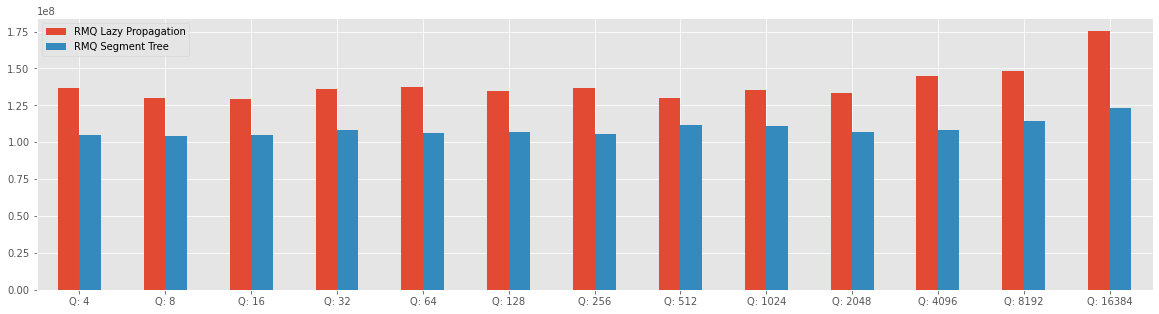
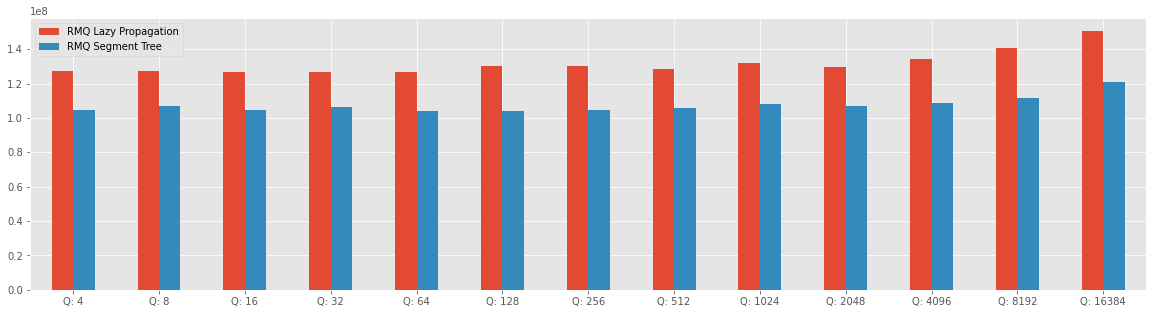
Improve benchmark  and update the report :heavy_check_mark:

diff --git a/Appendix/report_experiment/RMQ/benchmark/Main.cpp b/Appendix/report_experiment/RMQ/benchmark/Main.cpp
@@ -23,8 +23,6 @@
 #include <cmath>
 #include "../src/core/RangeMinimumQuery.hpp"
 
-//TODO the naive solution include only the range minimum query answer without update
-//for the moment
 static void BM_NAIVE_SOLUTION(benchmark::State& state)
 {
     for(auto _ : state) {
@@ -35,7 +33,7 @@ static void BM_NAIVE_SOLUTION(benchmark::State& state)
             input.push_back(rand() % state.range(1));
         std::vector<Query<int>> queries;
         for (size_t i = 0; i < state.range(0); i++)
-            if (i % 2 == 0)
+            if (state.range(0) % 2 == 0)
                 queries.emplace_back(false, rand() % state.range(1), rand() % state.range(1));
             else
                 queries.emplace_back(false, rand() % state.range(1), rand() % state.range(1));
@@ -54,7 +52,7 @@ static void BM_SEGMENT_TREE_BH(benchmark::State& state)
             input.push_back(rand() % state.range(1));
         std::vector<Query<int>> queries;
         for (size_t i = 0; i < state.range(0); i++)
-            if (i % 2 == 0)
+            if (state.range(0) % 2 == 0)
                 queries.emplace_back(false, rand() % state.range(1), rand() % state.range(1));
             else
                 queries.emplace_back(false, rand() % state.range(1), rand() % state.range(1));
@@ -74,7 +72,7 @@ static void BM_LAZY_SEGMENT_TREE_BH(benchmark::State& state)
             input.push_back(rand() % state.range(1));
         std::vector<Query<int>> queries;
         for (size_t i = 0; i < state.range(0); i++)
-            if (i % 2 == 0)
+            if (state.range(0) % 2 == 0)
                 queries.emplace_back(false, rand() % state.range(1), rand() % state.range(1));
             else
                 queries.emplace_back(false, rand() % state.range(1), rand() % state.range(1));

diff --git a/Appendix/report_experiment/RMQ/benchmark/results/RMQ_benchmark/README.md b/Appendix/report_experiment/RMQ/benchmark/results/RMQ_benchmark/README.md
@@ -2,7 +2,7 @@
 
 The solution at the problem Range Minimum Query was proposed with tree different solution, such as, Naive Solution, Segment Tree solution, and an improvement of performance with Segment Tree with Lazy propagation.
 
-All the implementation of the this solution are on the Repository [Competitive-Programming-and-Contests-VP-Solution](https://github.com/vincenzopalazzo/Competitive-Programming-and-Contests-VP-Solution/tree/master/Appendix/report_experiment/RMQ) and the implementation of Segment Tree and Segment Tree with Lazy Propagation are on the repository [cpstl](https://github.com/vincenzopalazzo/cpstl).
+All the implementation of the this solution are on the Repository [Competitive-Programming-and-Contests-VP-Solution](https://vincenzopalazzo.github.io/Competitive-Programming-and-Contests-VP-Solution/Appendix/report_experiment/RMQ/) and the implementation of Segment Tree and Segment Tree with Lazy Propagation are on the repository [cpstl](https://vincenzopalazzo.github.io/cpstl/).
 
 ## Range Mininum Query (RMQ) problem.
 
@@ -61,9 +61,7 @@ make_segment_tree_and_naive_benchmark_chart()
 
 With this comparison is possible see how the segment tree is fast to execute this type of queries, and how the naive solution is a very bad because repeate some calculation on the array that can be avoided. However, the version of RMQ proposed to [hackerearth](https://www.hackerearth.com/practice/data-structures/advanced-data-structures/segment-trees/practice-problems/algorithm/range-minimum-query/) required to answer also to some update query that make some change inside the original array, and this change make some alteration inside the Segment Tree.
 
-How described in the Section Lazy Propagation of the Paper (TODO ADD), when the change are frequentlly is possible improve the performance of the segment tree to implement the lazy propagation technique, that is a method to avoid the update of the Segment Tree at the update moment and the update is does when it is required to some important operation.
-
-In the chart below was reported a comparison between the Segment Tree solution and the solution with lazy popagation.
+How described in the Section Lazy Propagation of the Paper (TODO ADD link), when the uèdate on a range are frequentlly it is possible improve the performance of the Segment Tree to implement the Lazy Propagation technique, that is a method to avoid the update of the Segment Tree at the update time and pospone the update only  when it is requiredn. However, not in all the case the lazy propagation is the better choise, because we need to know also the dimension of this update on the range, in the case of RMQ problem on [hackerearth](https://www.hackerearth.com/practice/data-structures/advanced-data-structures/segment-trees/practice-problems/algorithm/range-minimum-query/) it is a simple update to only one element of the array and with this implementation it is tricky understend what is the better datastructure to use. For this reason, in the section below was described a code benchmark of RMQ solution with Segment Tree and another version of solution with Lazy propagnation (LazySegmentTree).
 
 
 ```python
@@ -76,7 +74,5 @@ make_segment_tree_lazy_segment_treee_benchmark_chart()
     
 
 
-We can observe that the RQM solution with lazy propagation is more fast that the solution with 
-the Segment Tree.
-
-Note: In this case we can see also the performace not linear, and the motivation is becase the the array and the input elements are pick with the C++ random function, and for some benchmark the dimension of the query is bigger that others query.
+We can observe that the RQM solution with lazy propagation is slower in  that the solution with 
+the Segment Tree. The cause of this result can be the type of Update on the range, because in this case the update it is only on one element of the range and not in one sub-range and the lazy technique implementation inside the Segment tree can make the query operation slower.
